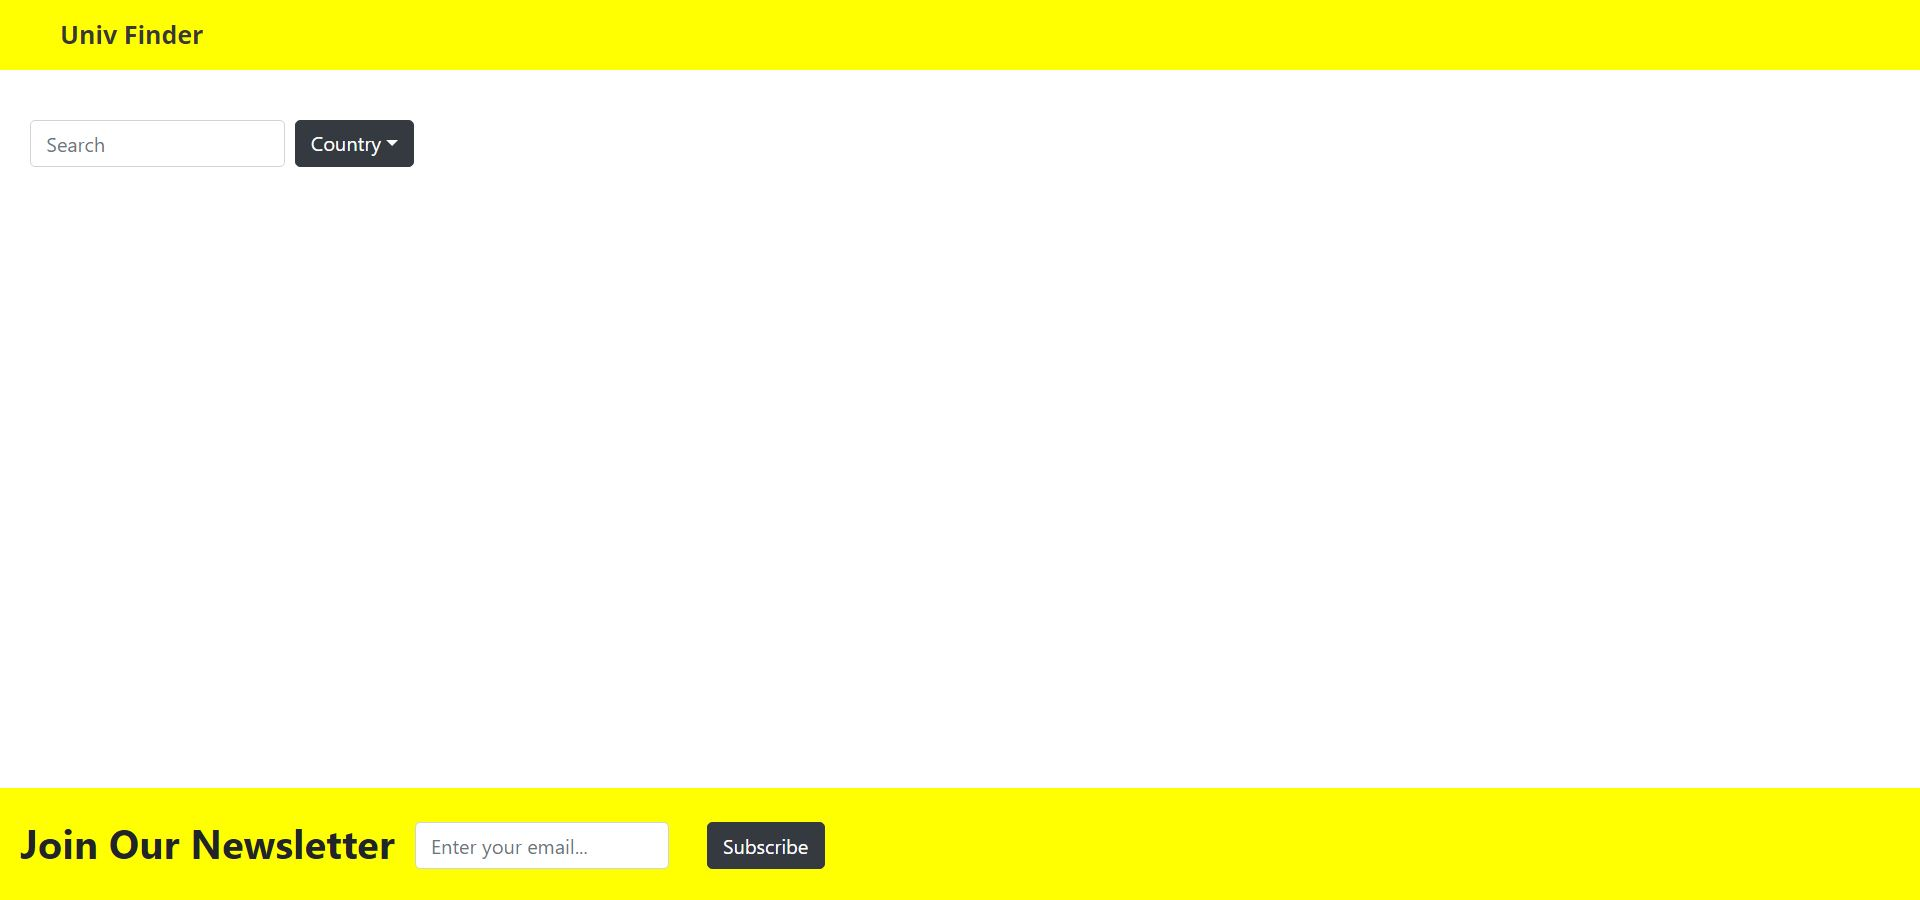
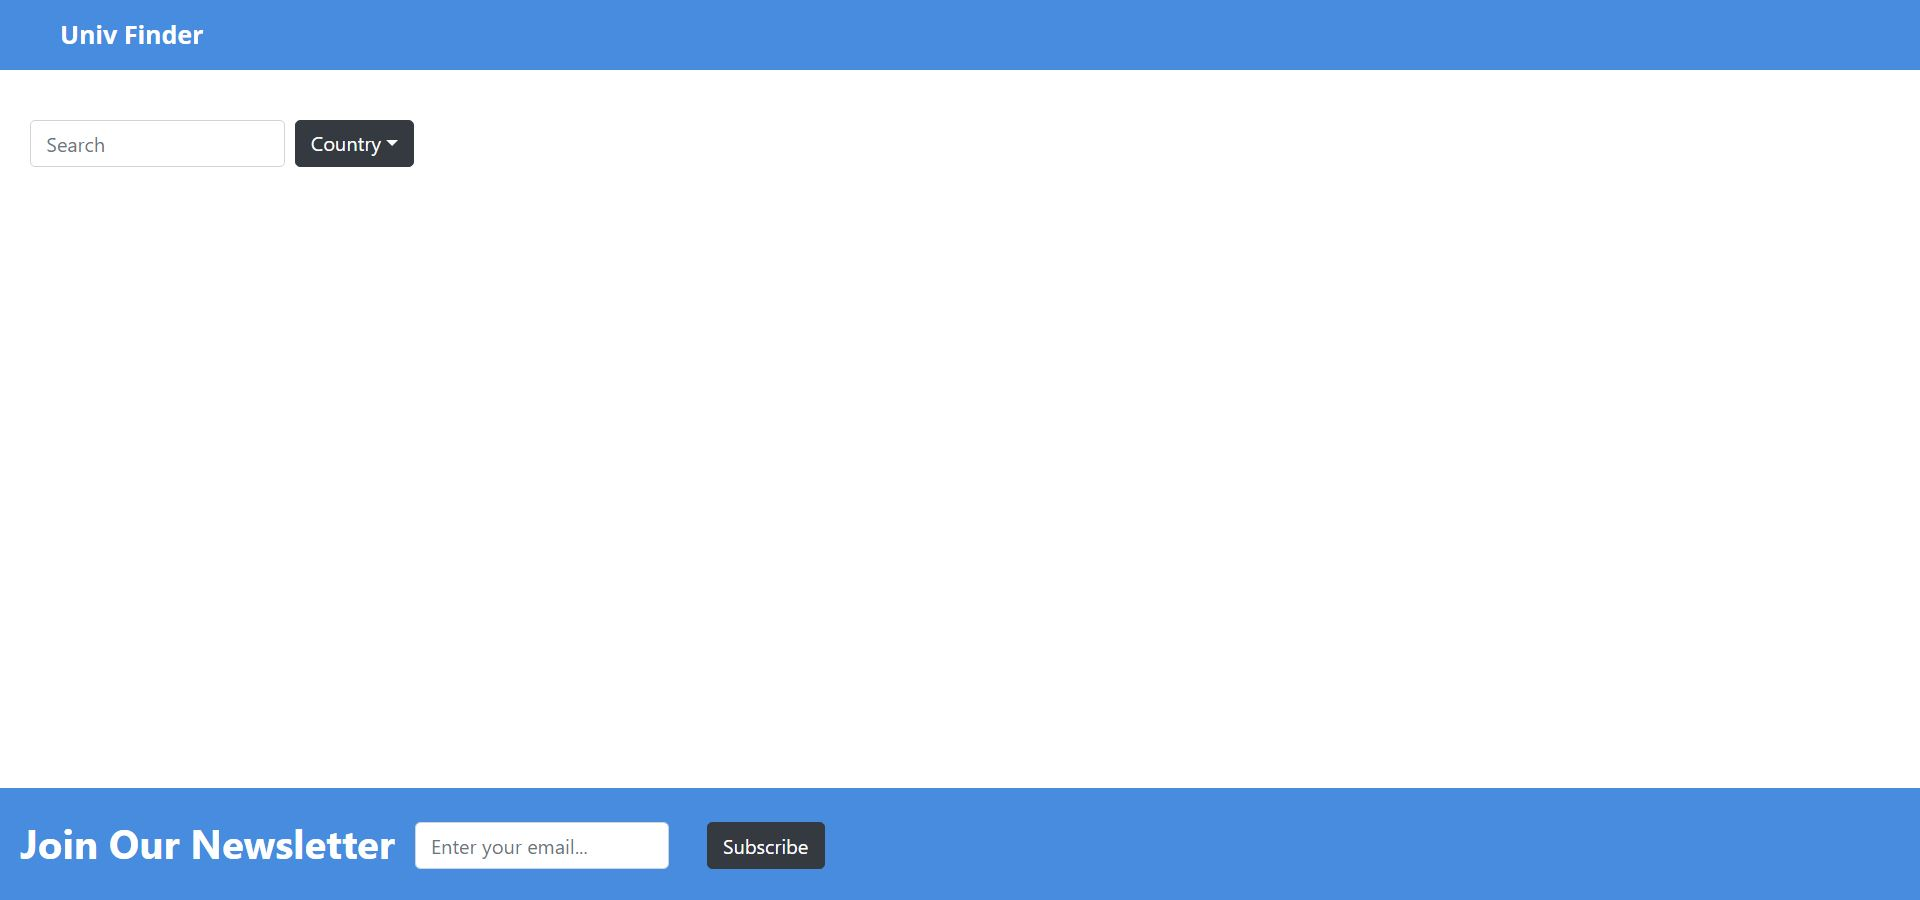
changed color

Changed region(s): [[0.0, 0.8711, 1.0, 1.0], [0.0, 0.0, 1.0, 0.0933]]

diff --git a/src/App.js b/src/App.js
@@ -120,7 +120,7 @@ export default class App extends React.Component {
                 {/* Navbar */}
                 <div>
                     <Navbar className="Navbar">
-                        <Navbar.Brand style={{color: '#383838', fontFamily: 'Open Sans', fontWeight: 'bold', paddingLeft: '2rem'}} className="Brand" href="/">Univ Finder</Navbar.Brand>
+                        <Navbar.Brand style={{color: 'white', fontFamily: 'Open Sans', fontWeight: 'bold', paddingLeft: '2rem'}} className="Brand" href="/">Univ Finder</Navbar.Brand>
                     </Navbar>
                 </div>
             
@@ -179,7 +179,7 @@ export default class App extends React.Component {
 
                     {/* Newsletter */}
                     <Form inline className="Newsletter">
-                        <Form.Text className="Join">Join Our Newsletter</Form.Text>
+                        <Form.Text className="Join" style={{color: 'white'}}>Join Our Newsletter</Form.Text>
                         <Row inline>
                             <Col>
                                 <Form.Group controlId="formBasicEmail" style={{alignContent: 'flex-end'}}>

diff --git a/src/App.css b/src/App.css
@@ -21,12 +21,12 @@
 }
 
 .Navbar {
-  background-color: yellow;
+  background-color: #488ce0;
   width: 100vw;
 }
 
 .Newsletter {
-  background-color: yellow;
+  background-color: #488ce0;
   position: fixed;
   left: 0;
   right: 0;
